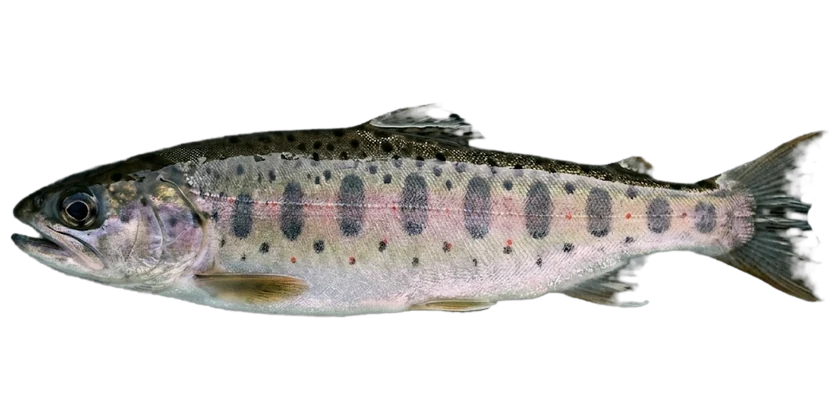
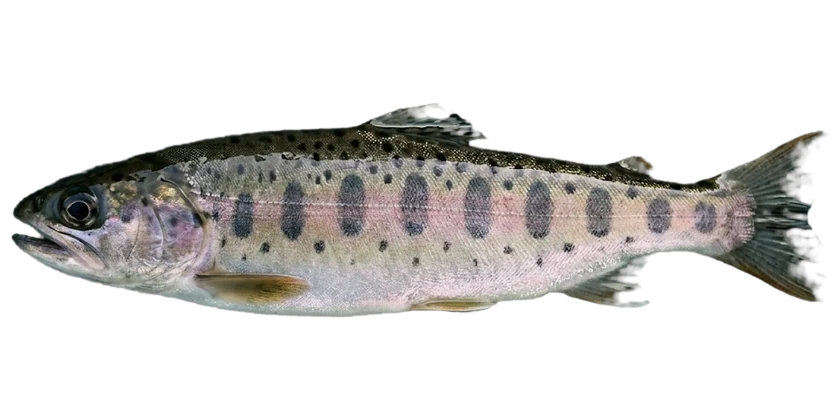
アユとゴンズイの絵を入れ、ヤマメの絵を作り直したものに差しかえる

diff --git a/index.html b/index.html
@@ -2777,7 +2777,7 @@
     {
       "id": "ayu",
       "name": "アユ",
-      "photo": false,
+      "views": false,
       "facts": {
         "season": {
           "value": "各地に禁漁期があり、多くの川で解禁は6〜9月。",
@@ -2923,7 +2923,7 @@
     {
       "id": "gonzui",
       "name": "ゴンズイ",
-      "photo": false,
+      "views": false,
       "facts": {
         "season": {
           "value": "専門にねらう人は少ないが、初夏から秋によく釣れる。",
@@ -7502,6 +7502,7 @@ const PREP_ART = {
   isaki: { gill: 0.25, viewGill: 0.25, half: 110 },
   yamame: { gill: 0.23, viewGill: 0.23, half: 80 },
   nijimasu: { gill: 0.22, viewGill: 0.22, half: 75 },
+  ayu: { gill: 0.19, viewGill: 0.19, half: 75 },
   kurodai: { gill: 0.24, viewGill: 0.24, half: 110 },
   kisu: { gill: 0.23, viewGill: 0.23, half: 60 },
   karei: { gill: 0.2, viewGill: 0.2, half: 140 },   // 頭が右の絵。割合は頭の側から数える
